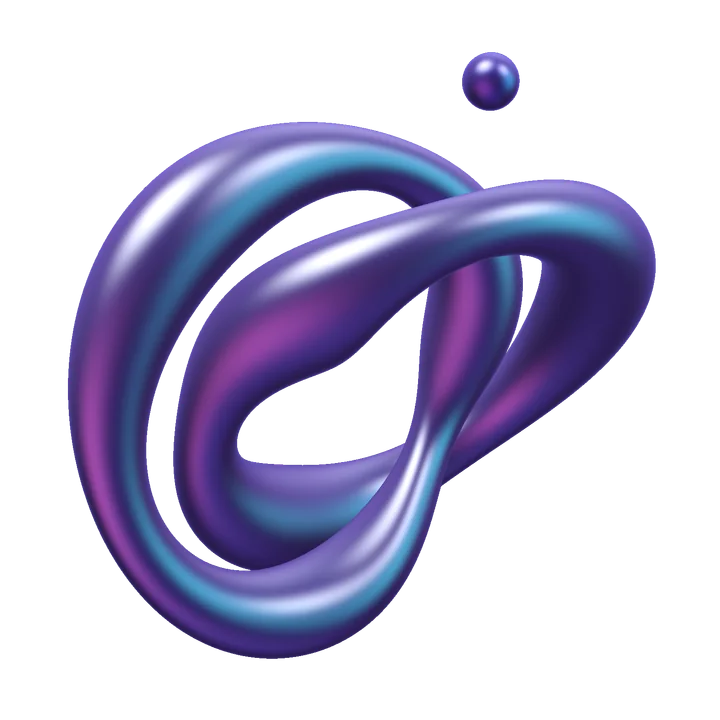
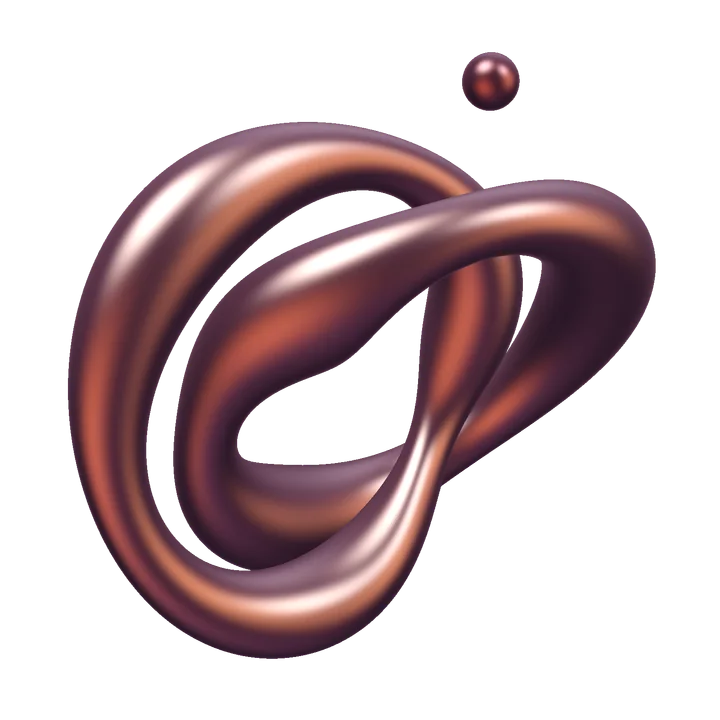
update UIs

diff --git a/components/marketing/hero/Hero.tsx b/components/marketing/hero/Hero.tsx
@@ -1,26 +1,22 @@
 import { ArrowUpRight, Play } from 'lucide-react';
-import { HeroVisual } from './HeroVisual.tsx';
 
 /**
  * Editorial hero. Left: eyebrow, oversized Sora headline with an orange accent phrase, supporting copy and two
- * calls to action. Right: the original GrowthPrint system artwork (HeroVisual) floating over an ambient glow,
- * with a small "live system" caption card. Fully theme-aware via the mk-* palette.
+ * calls to action. Right: the real GrowthPrint Studio dashboard in a browser frame — the product itself is the
+ * visual. Fully theme-aware via the mk-* palette.
  */
 export function Hero() {
   return (
     <section id="top" aria-labelledby="hero-title" className="mk-dark relative isolate overflow-hidden bg-mk-bg pt-28 lg:pt-36">
-      {/* atmosphere: cinematic orange key light upper right, coral pool lower left, plum depth */}
-      <div aria-hidden="true" className="pointer-events-none absolute -right-40 -top-52 -z-10 h-[860px] w-[860px] rounded-full bg-[#FF572E]/25 blur-[160px]" />
-      <div aria-hidden="true" className="pointer-events-none absolute -left-60 bottom-0 -z-10 h-[560px] w-[680px] rounded-full bg-[#FF7845]/15 blur-[150px]" />
-      <div aria-hidden="true" className="pointer-events-none absolute left-1/3 top-1/3 -z-10 h-[500px] w-[700px] rounded-full bg-[#6E2A12]/30 blur-[170px]" />
+      {/* atmosphere: one soft coral pool low left, plum depth from the section background */}
+      <div aria-hidden="true" className="pointer-events-none absolute -left-52 bottom-0 -z-10 h-[480px] w-[620px] rounded-full bg-mk-purple/10 blur-[140px]" />
       {/* horizon grid fade */}
-      <div aria-hidden="true" className="pointer-events-none absolute inset-x-0 bottom-0 -z-10 h-64 bg-gradient-to-t from-[#FF572E]/[0.07] to-transparent" />
+      <div aria-hidden="true" className="pointer-events-none absolute inset-x-0 bottom-0 -z-10 h-64 bg-gradient-to-t from-mk-purple/[0.07] to-transparent" />
 
       <div className="mx-auto grid max-w-[1440px] items-center gap-12 px-5 pb-20 sm:px-8 lg:min-h-[calc(100svh-8rem)] lg:grid-cols-[1.05fr_0.95fr] lg:gap-10 lg:px-14 lg:pb-28">
         <div className="relative z-10 max-w-[660px]">
-          <p className="mk-rise inline-flex items-center gap-2.5 rounded-full border border-mk-purple/40 bg-mk-purple/[0.08] px-4 py-2 text-[13px] font-medium tracking-[0.08em] text-mk-purple">
-            <span aria-hidden="true" className="text-mk-purple">✦</span>
-            SOFTWARE ENGINEERING &amp; INTELLIGENT AUTOMATION
+          <p className="mk-rise text-[13px] font-medium text-mk-purple">
+            Software engineering &amp; intelligent automation
           </p>
 
           <h1 id="hero-title" className="mk-rise mt-8 font-semibold leading-[1.02] tracking-[-0.03em] text-[clamp(2.625rem,5.5vw,5.75rem)]" style={{ animationDelay: '0.08s' }}>
@@ -28,7 +24,7 @@ export function Hero() {
             <br />
             Scale Without
             <br />
-            <span className="bg-gradient-to-r from-mk-purple to-mk-blue bg-clip-text text-transparent">Limits.</span>
+            <em className="font-light italic text-mk-purple">Limits.</em>
           </h1>
 
           <p className="mk-rise mt-8 max-w-[36rem] font-light leading-[1.65] text-[clamp(1rem,1.15vw,1.1875rem)] text-mk-muted" style={{ animationDelay: '0.16s' }}>
@@ -38,11 +34,11 @@ export function Hero() {
 
           <div className="mk-rise mt-11 flex flex-col gap-4 sm:flex-row sm:items-center" style={{ animationDelay: '0.24s' }}>
             <a href="#start"
-              className="inline-flex h-14 items-center justify-center gap-2 whitespace-nowrap rounded-xl bg-gradient-to-r from-mk-purple to-mk-blue px-8 text-base font-medium text-mk-accent-fg shadow-[0_18px_40px_-16px_rgb(249_115_22/0.55)] transition-[filter,transform] duration-150 hover:brightness-105 active:scale-[0.98]">
+              className="inline-flex h-14 items-center justify-center gap-2 whitespace-nowrap rounded-xl bg-mk-purple px-8 text-base font-medium text-mk-accent-fg transition-[filter,transform] duration-150 hover:brightness-105 active:scale-[0.98]">
               Start a Project <ArrowUpRight className="h-[18px] w-[18px]" aria-hidden="true" />
             </a>
             <a href="#meet"
-              className="inline-flex h-14 items-center justify-center gap-2 whitespace-nowrap rounded-xl border border-mk-line px-8 text-base font-medium text-mk-text transition duration-150 hover:border-mk-purple/60 hover:bg-mk-soft active:scale-[0.98]">
+              className="inline-flex h-14 items-center justify-center gap-2 whitespace-nowrap rounded-xl border border-mk-line px-8 text-base font-medium text-mk-text transition-colors duration-150 hover:border-mk-purple/60 hover:bg-mk-soft active:scale-[0.98]">
               <Play className="h-4 w-4 fill-mk-purple text-mk-purple" aria-hidden="true" /> Watch What We Do
             </a>
           </div>
@@ -61,19 +57,27 @@ export function Hero() {
           </ul>
         </div>
 
-        <div className="mk-rise relative mx-auto w-full max-w-[620px] lg:max-w-none" style={{ animationDelay: '0.18s' }}>
-          {/* ambient glow behind the artwork */}
-          <div aria-hidden="true" className="pointer-events-none absolute inset-0 -z-0 scale-90 rounded-full bg-[radial-gradient(closest-side,rgba(255,87,46,0.35),rgba(255,120,69,0.12)_55%,transparent)] blur-2xl" />
-          <HeroVisual />
-          {/* floating caption card */}
-          <div className="mk-rise absolute -bottom-2 left-2 hidden items-center gap-3 rounded-xl border border-mk-line bg-mk-surface/90 px-5 py-4 shadow-[0_24px_60px_-24px_rgb(0_0_0/0.5)] backdrop-blur-md sm:flex" style={{ animationDelay: '0.55s' }}>
-            <span className="relative flex h-2.5 w-2.5">
-              <span className="absolute inline-flex h-full w-full animate-ping rounded-full bg-mk-purple opacity-60" />
-              <span className="relative inline-flex h-2.5 w-2.5 rounded-full bg-mk-purple" />
-            </span>
+        <div className="mk-rise relative mx-auto w-full max-w-[640px] lg:max-w-none" style={{ animationDelay: '0.18s' }}>
+          {/* the product itself is the visual: the real Studio dashboard in a browser frame */}
+          <figure className="relative">
+            <div className="overflow-hidden rounded-2xl border border-white/10 bg-mk-surface shadow-[0_50px_110px_-40px_rgb(0_0_0/0.7)] ring-1 ring-white/5">
+              <div aria-hidden="true" className="flex items-center gap-2 border-b border-mk-line bg-mk-soft/60 px-4 py-3">
+                <span className="h-2.5 w-2.5 rounded-full bg-mk-line" />
+                <span className="h-2.5 w-2.5 rounded-full bg-mk-line" />
+                <span className="h-2.5 w-2.5 rounded-full bg-mk-line" />
+                <span className="ml-3 hidden rounded-md bg-mk-bg px-3 py-1 text-[12px] text-mk-muted sm:block">studio.growthprint.agency/ops</span>
+              </div>
+              <img src="/images/work/growthprint-studio-dashboard.webp" width={1440} height={1000} decoding="async"
+                alt="GrowthPrint Studio dashboard with project, lead, client and invoice summaries and charts"
+                className="block w-full" />
+            </div>
+          </figure>
+          {/* caption card */}
+          <div className="mk-rise absolute -bottom-4 left-4 hidden items-center gap-3 rounded-xl border border-mk-line bg-mk-surface/90 px-5 py-4 shadow-[0_24px_60px_-24px_rgb(0_0_0/0.5)] backdrop-blur-md sm:flex" style={{ animationDelay: '0.55s' }}>
+            <span aria-hidden="true" className="h-2 w-2 rounded-full bg-mk-purple" />
             <div>
               <p className="text-[13px] font-medium text-mk-text">GrowthPrint Studio</p>
-              <p className="text-[12px] text-mk-dim">Live operations platform · demo data</p>
+              <p className="text-[12px] text-mk-dim">The operations platform we run our own agency on</p>
             </div>
           </div>
         </div>

diff --git a/components/marketing/services/Services.tsx b/components/marketing/services/Services.tsx
@@ -10,7 +10,7 @@ function CodeVisual() {
         <div key={i} className="whitespace-pre">
           <span className="mr-4 text-white/25">{18 + i}</span>
           <span className="text-mk-muted">{l[0]}</span><span className="text-[#ffb38a]">{l[1]}</span>
-          <span className="text-[#7fd4ff]">{l[2]}</span><span className="text-[#ffd2a8]">{l[3]}</span><span className="text-mk-muted">{l[4] ?? ''}</span>
+          <span className="text-[#e8c9ae]">{l[2]}</span><span className="text-[#ffd2a8]">{l[3]}</span><span className="text-mk-muted">{l[4] ?? ''}</span>
         </div>
       ))}
     </div>
@@ -21,7 +21,7 @@ function BarsVisual() {
   return (
     <div aria-hidden="true" className="mt-8 flex h-24 items-end gap-2">
       {[38, 62, 48, 80, 56, 92, 70].map((h, i) => (
-        <span key={i} className="flex-1 rounded-t-md bg-gradient-to-t from-mk-blue/50 to-mk-purple/80" style={{ height: `${h}%` }} />
+        <span key={i} className="flex-1 rounded-t-md bg-mk-purple/80" style={{ height: `${h}%` }} />
       ))}
     </div>
   );
@@ -36,7 +36,7 @@ function FlowVisual() {
           {i < 2 && <path d={`M${x + 80} 45 H${x + 100}`} stroke="var(--mk-purple)" strokeWidth="2" />}
         </g>
       ))}
-      <circle cx="304" cy="45" r="9" fill="var(--mk-blue)" opacity="0.9" /><path d="M300 45l3 3 6-6" stroke="var(--mk-code)" strokeWidth="2" fill="none" />
+      <circle cx="304" cy="45" r="9" fill="var(--mk-purple)" opacity="0.9" /><path d="M300 45l3 3 6-6" stroke="var(--mk-code)" strokeWidth="2" fill="none" />
     </svg>
   );
 }
@@ -47,7 +47,7 @@ function HubVisual() {
     <svg aria-hidden="true" viewBox="0 0 320 100" className="mt-8 w-full">
       {spokes.map(([x, y], i) => <line key={i} x1="160" y1="50" x2={x} y2={y} stroke="var(--mk-purple)" strokeOpacity="0.5" strokeWidth="1.5" />)}
       {spokes.map(([x, y], i) => <circle key={`c${i}`} cx={x} cy={y} r="6" fill="var(--mk-surface)" stroke="var(--mk-purple)" strokeWidth="1.5" />)}
-      <circle cx="160" cy="50" r="15" fill="url(#hubg)" /><defs><radialGradient id="hubg"><stop offset="0" style={{ stopColor: 'var(--mk-purple)' }} /><stop offset="1" style={{ stopColor: 'var(--mk-blue)' }} /></radialGradient></defs>
+      <circle cx="160" cy="50" r="15" fill="var(--mk-purple)" />
     </svg>
   );
 }
@@ -57,7 +57,7 @@ function ReviewVisual() {
     <ul aria-hidden="true" className="mt-8 space-y-2.5">
       {['Architecture', 'Performance', 'Security', 'Maintainability'].map((label, i) => (
         <li key={label} className="flex items-center gap-3 text-[13px] text-mk-muted">
-          <span className="h-1.5 flex-1 overflow-hidden rounded-full bg-mk-line"><span className="block h-full rounded-full bg-gradient-to-r from-mk-purple to-mk-violet" style={{ width: `${[86, 72, 80, 64][i]}%` }} /></span>
+          <span className="h-1.5 flex-1 overflow-hidden rounded-full bg-mk-line"><span className="block h-full rounded-full bg-mk-purple/80" style={{ width: `${[86, 72, 80, 64][i]}%` }} /></span>
           <span className="w-28 text-right">{label}</span>
         </li>
       ))}
@@ -96,7 +96,6 @@ export function Services() {
                 className={`mk-reveal relative overflow-hidden rounded-2xl border p-7 transition-transform duration-300 ease-out hover:-translate-y-1 sm:p-8 ${PLACEMENT[service.id]} ${service.id === 'websites'
                   ? 'mk-dark border-white/10 bg-gradient-to-br from-[#211824] via-[#19121D] to-[#100B12] shadow-[0_40px_90px_-40px_rgb(16_11_18/0.7)]'
                   : 'border-mk-line bg-gradient-to-br from-mk-soft via-mk-surface to-mk-bg'}`}>
-                <div aria-hidden="true" className={`pointer-events-none absolute -bottom-24 -left-16 h-64 w-64 rounded-full blur-[90px] ${service.id === 'websites' ? 'bg-[#FF572E]/20' : 'bg-mk-purple/15'}`} />
                 <div className={service.id === 'websites' ? 'relative md:max-w-[42%]' : 'relative'}>
                   <h3 className="font-medium text-[clamp(1.125rem,1.5vw,1.375rem)] sm:text-[1.375rem]">{service.title}</h3>
                   <p className="mt-3 font-light leading-[1.65] text-[clamp(0.9375rem,1.1vw,1rem)] text-mk-muted">{service.summary}</p>

diff --git a/scripts/marketing-media/sculpture.html b/scripts/marketing-media/sculpture.html
@@ -49,21 +49,26 @@ vec3 normalAt(vec3 p){
   return normalize(vec3(mapD(p+e.xyy)-mapD(p-e.xyy), mapD(p+e.yxy)-mapD(p-e.yxy), mapD(p+e.yyx)-mapD(p-e.yyx)));
 }
 
-// Studio environment: dark violet room, a large white softbox, a cyan rim light and a magenta kicker.
+// Studio environment: dark plum room, a large white softbox, a coral rim light and a warm kicker.
 vec3 env(vec3 d){
   float t = d.y*0.5 + 0.5;
-  vec3 c = mix(vec3(0.030,0.015,0.070), vec3(0.40,0.30,0.88), smoothstep(0.10, 0.95, t));
+  vec3 c = mix(vec3(0.024,0.012,0.034), vec3(0.34,0.20,0.30), smoothstep(0.10, 0.95, t));
   c += vec3(0.95,0.96,1.0) * pow(max(dot(d, normalize(vec3(-0.45,0.85,0.55))),0.0), 12.0) * 4.2;
   c += vec3(0.90,0.92,1.0) * pow(max(dot(d, normalize(vec3(0.65,0.55,0.55))),0.0), 18.0) * 2.4;
   c += vec3(0.70,0.78,1.0) * pow(max(dot(d, normalize(vec3(0.2,0.9,-0.4))),0.0), 6.0) * 0.55;
-  c += vec3(0.10,0.85,1.00) * pow(max(dot(d, normalize(vec3(0.95,0.05,0.35))),0.0), 7.0) * 1.25;
-  c += vec3(1.00,0.25,0.80) * pow(max(dot(d, normalize(vec3(-0.55,-0.55,0.65))),0.0), 5.0) * 1.05;
-  c += vec3(0.30,0.20,1.00) * pow(max(dot(d, normalize(vec3(0.1,-0.9,0.3))),0.0), 3.0) * 0.45;
+  c += vec3(1.00,0.55,0.30) * pow(max(dot(d, normalize(vec3(0.95,0.05,0.35))),0.0), 7.0) * 1.25;
+  c += vec3(1.00,0.38,0.20) * pow(max(dot(d, normalize(vec3(-0.55,-0.55,0.65))),0.0), 5.0) * 1.05;
+  c += vec3(0.45,0.22,0.40) * pow(max(dot(d, normalize(vec3(0.1,-0.9,0.3))),0.0), 3.0) * 0.45;
   return c;
 }
 
 vec3 iridescence(float f){
-  return 0.5 + 0.5*cos(2.0*PI*(vec3(0.62,0.70,0.82) + f*vec3(0.85,0.72,0.60)));
+  vec3 coral = vec3(1.00,0.55,0.30);
+  vec3 gold  = vec3(1.00,0.78,0.50);
+  vec3 rose  = vec3(0.80,0.38,0.48);
+  float band = 0.5 + 0.5*cos(2.0*PI*(0.30 + f*0.85));
+  float lean = 0.5 + 0.5*sin(2.0*PI*(0.12 + f*0.60));
+  return mix(gold, mix(coral, rose, lean), band);
 }
 
 float ao(vec3 p, vec3 n){
@@ -88,10 +93,10 @@ void main(){
   vec3 p = ro + rd*t, n = normalAt(p), v = -rd, r = reflect(rd, n);
   float ndv = clamp(dot(n, v), 0.0, 1.0);
   float fres = pow(1.0 - ndv, 4.0);
-  vec3 tint = id < 0.5 ? mix(vec3(0.90,0.90,1.0), iridescence(ndv + 0.15*n.y), 0.45) : mix(vec3(0.55,0.52,0.95), iridescence(ndv), 0.4);
+  vec3 tint = id < 0.5 ? mix(vec3(0.95,0.92,0.90), iridescence(ndv + 0.15*n.y), 0.45) : mix(vec3(0.55,0.36,0.44), iridescence(ndv), 0.4);
   vec3 col = env(r) * tint;
   col += env(r) * fres * 0.9;
-  col += vec3(0.09,0.06,0.18);                       // a little body colour so shadows stay violet, not black
+  col += vec3(0.10,0.05,0.09);                       // a little body colour so shadows stay plum, not black
   col *= mix(0.55, 1.0, ao(p, n));
   col = col / (1.0 + col*0.55);                     // soft tone map
   col = pow(col, vec3(0.88));

diff --git a/features/inquiries/ProjectInquiryForm.tsx b/features/inquiries/ProjectInquiryForm.tsx
@@ -67,8 +67,8 @@ export function ProjectInquiryForm() {
   if (reference) {
     return (
       <div ref={confirmRef} tabIndex={-1} role="status"
-        className="rounded-[22px] border border-mk-violet/40 bg-mk-surface/80 p-8 outline-none sm:p-10">
-        <CheckCircle2 className="h-10 w-10 text-mk-cyan" aria-hidden="true" />
+        className="rounded-2xl border border-mk-purple/40 bg-mk-surface/80 p-8 outline-none sm:p-10">
+        <CheckCircle2 className="h-10 w-10 text-mk-purple" aria-hidden="true" />
         <h3 className="mt-5 text-2xl font-medium">Inquiry received</h3>
         <p className="mt-3 font-light leading-relaxed text-mk-muted">
           Thanks, {values.name.trim().split(' ')[0]}. Your reference is{' '}
@@ -92,7 +92,7 @@ export function ProjectInquiryForm() {
 
   return (
     <form ref={formRef} onSubmit={submit} noValidate aria-busy={pending}
-      className="rounded-[22px] border border-mk-line bg-mk-surface/80 p-6 backdrop-blur-sm sm:p-9">
+      className="rounded-2xl border border-mk-line bg-mk-surface/80 p-6 backdrop-blur-sm sm:p-9">
       <div className="grid gap-5 sm:grid-cols-2">
         <div>
           <label htmlFor={`${id}-name`} className={label}>Full name</label>
@@ -173,7 +173,7 @@ export function ProjectInquiryForm() {
       )}
 
       <button type="submit" disabled={pending}
-        className="mt-8 inline-flex h-14 w-full items-center justify-center gap-2 rounded-xl bg-gradient-to-r from-mk-purple to-mk-blue px-8 text-base font-medium text-mk-accent-fg transition-[filter] hover:brightness-105 disabled:cursor-wait disabled:opacity-70 sm:w-auto">
+        className="mt-8 inline-flex h-14 w-full items-center justify-center gap-2 rounded-xl bg-mk-purple px-8 text-base font-medium text-mk-accent-fg transition-[filter] hover:brightness-105 disabled:cursor-wait disabled:opacity-70 sm:w-auto">
         {pending ? 'Sending…' : <>Send inquiry <ArrowUpRight className="h-[18px] w-[18px]" aria-hidden="true" /></>}
       </button>
     </form>

diff --git a/components/marketing/final-cta/FinalCta.tsx b/components/marketing/final-cta/FinalCta.tsx
@@ -13,8 +13,10 @@ export function FinalCta() {
         {lines.map(i => <path key={`l${i}`} pathLength={1} d={`M0 ${60 + i * 85} Q 520 ${300 + (i - 3) * 22} 760 320`} fill="none" stroke="url(#mk-line-l)" strokeWidth="1" />)}
         {lines.map(i => <path key={`r${i}`} pathLength={1} d={`M1600 ${60 + i * 85} Q 1080 ${300 + (i - 3) * 22} 840 320`} fill="none" stroke="url(#mk-line-r)" strokeWidth="1" />)}
       </svg>
-      <div aria-hidden="true" className="pointer-events-none absolute left-1/2 top-1/2 -z-10 h-[420px] w-[720px] -translate-x-1/2 -translate-y-1/2 rounded-full bg-[#FF572E]/20 blur-[130px]" />
       <div className="mk-reveal mx-auto max-w-3xl px-5 py-32 text-center sm:px-8 lg:py-44">
+        <img src="/images/growthprint-sculpture-720.webp" width={720} height={720} decoding="async"
+          alt=""
+          className="mx-auto mb-10 h-44 w-44 object-contain sm:h-56 sm:w-56" />
         <h2 id="final-title" className="font-medium leading-[1.08] tracking-[-0.02em] text-[clamp(2rem,4.4vw,3.75rem)]">
           Your next stage of growth starts with <em className="font-light italic">better technology.</em>
         </h2>
@@ -22,7 +24,7 @@ export function FinalCta() {
           Tell us what you&rsquo;re trying to achieve. Let&rsquo;s explore how GrowthPrint can help.
         </p>
         <a href="#start"
-          className="mt-10 inline-flex h-14 items-center gap-2 rounded-xl bg-gradient-to-r from-mk-purple to-mk-blue px-8 text-base font-medium text-mk-accent-fg shadow-[0_18px_40px_-16px_rgb(249_115_22/0.55)] transition-[filter,transform] duration-150 hover:brightness-105 active:scale-[0.98]">
+          className="mt-10 inline-flex h-14 items-center gap-2 rounded-xl bg-mk-purple px-8 text-base font-medium text-mk-accent-fg transition-[filter,transform] duration-150 hover:brightness-105 active:scale-[0.98]">
           Start Your Project <ArrowUpRight className="h-[18px] w-[18px]" aria-hidden="true" />
         </a>
       </div>

diff --git a/components/marketing/explainer-video/ExplainerVideo.tsx b/components/marketing/explainer-video/ExplainerVideo.tsx
@@ -37,7 +37,7 @@ export function ExplainerVideo() {
 
   return (
     <div className="relative w-full">
-      <div aria-hidden="true" className="pointer-events-none absolute -inset-8 -z-10 rounded-[40px] bg-gradient-to-br from-mk-purple/30 via-mk-blue/15 to-transparent blur-3xl" />
+      <div aria-hidden="true" className="pointer-events-none absolute -inset-8 -z-10 rounded-[40px] bg-mk-purple/10 blur-3xl" />
       <div className="relative aspect-video w-full overflow-hidden rounded-2xl border border-mk-line bg-mk-code shadow-[0_40px_120px_-40px_rgb(0_0_0/0.55)]">
         <video
           ref={videoRef}
@@ -56,8 +56,8 @@ export function ExplainerVideo() {
         {!started && (
           <button type="button" onClick={() => void start()}
             className="group absolute inset-0 flex items-center justify-center bg-gradient-to-t from-mk-code/70 via-transparent to-transparent">
-            <span className="flex h-20 w-20 items-center justify-center rounded-full bg-white/10 ring-1 ring-white/30 backdrop-blur-md transition-transform duration-300 group-hover:scale-105 group-focus-visible:scale-105 sm:h-24 sm:w-24">
-              <span className="flex h-14 w-14 items-center justify-center rounded-full bg-gradient-to-br from-mk-purple to-mk-blue sm:h-16 sm:w-16">
+            <span className="flex h-20 w-20 items-center justify-center rounded-full bg-white/10 ring-1 ring-white/30 backdrop-blur-md transition-transform duration-200 group-hover:scale-105 group-focus-visible:scale-105 sm:h-24 sm:w-24">
+              <span className="flex h-14 w-14 items-center justify-center rounded-full bg-mk-purple sm:h-16 sm:w-16">
                 <Play className="ml-1 h-6 w-6 fill-mk-accent-fg text-mk-accent-fg" aria-hidden="true" />
               </span>
             </span>

diff --git a/components/marketing/case-studies/OurWork.tsx b/components/marketing/case-studies/OurWork.tsx
@@ -6,7 +6,7 @@
 export function OurWork() {
   return (
     <section id="work" aria-labelledby="work-title" className="mk-dark scroll-mt-24 border-t border-mk-line bg-mk-bg">
-      <div aria-hidden="true" className="pointer-events-none absolute -left-40 top-24 -z-10 h-[480px] w-[480px] rounded-full bg-[#FF572E]/15 blur-[140px]" />
+      <div aria-hidden="true" className="pointer-events-none absolute -left-40 top-24 -z-10 h-[480px] w-[480px] rounded-full bg-mk-purple/10 blur-[140px]" />
       <div className="relative mx-auto max-w-[1440px] px-5 py-24 sm:px-8 lg:px-14 lg:py-32">
         <div className="grid gap-12 lg:grid-cols-[0.8fr_1.2fr] lg:items-center lg:gap-16">
           <div className="mk-reveal">
@@ -29,7 +29,7 @@ export function OurWork() {
           </div>
 
           <figure className="mk-reveal relative">
-            <div aria-hidden="true" className="pointer-events-none absolute -inset-10 -z-10 rounded-full bg-[#FF572E]/15 blur-[100px]" />
+            <div aria-hidden="true" className="pointer-events-none absolute -inset-10 -z-10 rounded-full bg-mk-purple/10 blur-[100px]" />
             <div className="overflow-hidden rounded-2xl border border-white/10 bg-mk-surface shadow-[0_50px_120px_-40px_rgb(0_0_0/0.8)] ring-1 ring-white/5">
               <img src="/images/work/growthprint-studio-dashboard.webp" width={1440} height={1000} decoding="async"
                 alt="GrowthPrint Studio dashboard with project, lead, client and invoice summaries and charts"

diff --git a/components/ui/forms.tsx b/components/ui/forms.tsx
@@ -53,9 +53,10 @@ export const Button = forwardRef<HTMLButtonElement, ButtonProps>(function Button
       disabled={disabled || loading}
       aria-busy={loading || undefined}
       className={cx(
-        'inline-flex items-center justify-center gap-2 rounded-lg font-semibold transition-colors',
+        'inline-flex items-center justify-center gap-2 rounded-lg font-semibold transition-all duration-200 ease-out',
         'focus-visible:outline-none focus-visible:ring-4 focus-visible:ring-gp-primary/30',
         'disabled:cursor-not-allowed disabled:opacity-55',
+        'active:scale-[0.98] active:shadow-sm',
         sizes[size], BUTTON_VARIANTS[variant], fullWidth && 'w-full', className,
       )}
       {...rest}
@@ -109,7 +110,7 @@ export function Field({ label, required, help, error, className, children }: Fie
 }
 
 export const inputClass = (invalid: boolean, extra?: string) => cx(
-  'block w-full rounded-lg border bg-gp-surface px-3 py-2 text-sm text-gp-text transition',
+  'block w-full rounded-lg border bg-gp-surface px-3 py-2 text-sm text-gp-text transition-all duration-200 ease-out',
   'placeholder:text-gp-text-muted focus:outline-none focus:ring-4',
   'disabled:cursor-not-allowed disabled:bg-gp-surface-secondary disabled:text-gp-text-muted',
   invalid ? 'border-gp-danger focus:border-gp-danger focus:ring-gp-danger/20' : 'border-gp-border focus:border-gp-primary focus:ring-gp-primary/30',

diff --git a/components/marketing/navbar/MarketingNav.tsx b/components/marketing/navbar/MarketingNav.tsx
@@ -61,7 +61,7 @@ export function MarketingNav() {
 
         <div className="flex items-center gap-3">
           <a href="/#start"
-            className="hidden h-12 items-center rounded-xl bg-gradient-to-r from-mk-purple to-mk-blue px-7 text-[15px] font-medium text-mk-accent-fg shadow-[0_10px_30px_-12px_rgb(249_115_22/0.6)] transition-[filter,transform] duration-150 hover:brightness-105 active:scale-[0.98] sm:inline-flex">
+            className="hidden h-12 items-center rounded-xl bg-mk-purple px-7 text-[15px] font-medium text-mk-accent-fg transition-[filter,transform] duration-150 hover:brightness-105 active:scale-[0.98] sm:inline-flex">
             Contact Us
           </a>
           <button ref={buttonRef} type="button" onClick={() => setOpen(o => !o)} aria-expanded={open} aria-controls="mk-menu"
@@ -83,7 +83,7 @@ export function MarketingNav() {
             ))}
           </ul>
           <a href="/#start" onClick={() => setOpen(false)}
-            className="mt-6 flex h-12 items-center justify-center rounded-xl bg-gradient-to-r from-mk-purple to-mk-blue text-[15px] font-medium text-mk-accent-fg">
+            className="mt-6 flex h-12 items-center justify-center rounded-xl bg-mk-purple text-[15px] font-medium text-mk-accent-fg">
             Contact Us
           </a>
         </div>

diff --git a/components/marketing/brand-intro/BrandIntro.tsx b/components/marketing/brand-intro/BrandIntro.tsx
@@ -26,10 +26,10 @@ export function BrandIntro() {
       </section>
 
       <section id="meet" aria-labelledby="meet-title" className="mk-dark relative scroll-mt-24 overflow-hidden border-t border-mk-line bg-mk-bg">
-        <div aria-hidden="true" className="pointer-events-none absolute left-1/2 top-40 -z-10 h-[600px] w-[1000px] -translate-x-1/2 rounded-full bg-[#FF572E]/15 blur-[160px]" />
+        <div aria-hidden="true" className="pointer-events-none absolute left-1/2 top-40 -z-10 h-[600px] w-[1000px] -translate-x-1/2 rounded-full bg-mk-purple/10 blur-[160px]" />
         <div className="mx-auto max-w-[1240px] px-5 pb-24 sm:px-8 lg:px-14 lg:pb-32">
           <div className="mk-reveal mx-auto max-w-3xl text-center mb-12">
-            <p className="text-[13px] font-medium tracking-[0.14em] text-mk-violet">MEET GROWTHPRINT</p>
+            <p className="text-[13px] font-medium text-mk-violet">Meet GrowthPrint</p>
             <h2 id="meet-title" className="mt-5 font-medium leading-[1.08] tracking-[-0.02em] text-[clamp(1.875rem,3.8vw,3.375rem)]">
               Technology should make business <em className="font-light italic">easier.</em>
             </h2>

diff --git a/app/globals.css b/app/globals.css
@@ -399,9 +399,7 @@
 [data-theme="dark"] .gp-marketing { color-scheme: dark; }
 .gp-marketing :focus-visible { outline: 2px solid var(--color-mk-violet); outline-offset: 3px; }
 .gp-marketing ::selection { background: rgb(249 115 22 / 0.35); }
-@keyframes mk-float { 0%, 100% { transform: translateY(0) rotate(0deg); } 50% { transform: translateY(-14px) rotate(1.5deg); } }
 @keyframes mk-rise { from { opacity: 0; transform: translateY(18px); } to { opacity: 1; transform: none; } }
-.mk-float { animation: mk-float 9s ease-in-out infinite; }
 .mk-rise { animation: mk-rise 0.9s cubic-bezier(0.2, 0.8, 0.2, 1) both; }
 
 /* Scroll-driven reveals: content rises into view as it enters the scrollport. Pure CSS
@@ -425,7 +423,7 @@
 }
 .mk-menu-in { animation: mk-menu-in 0.25s cubic-bezier(0.2, 0, 0, 1) both; }
 @media (prefers-reduced-motion: reduce) {
-  .mk-float, .mk-rise, .mk-reveal, .mk-menu-in, .mk-draw path { animation: none; }
+  .mk-rise, .mk-reveal, .mk-menu-in, .mk-draw path { animation: none; }
   .mk-draw path { stroke-dashoffset: 0; }
 }
 

diff --git a/features/auth/components/AuthShell.tsx b/features/auth/components/AuthShell.tsx
@@ -28,12 +28,6 @@ export function AuthShell({ eyebrow, title, subtitle, children, footer, aside }:
   return (
     <div className="gp-app grid min-h-screen bg-gp-canvas lg:grid-cols-[minmax(0,5fr)_minmax(0,7fr)]">
       <aside className="relative hidden overflow-hidden bg-gp-plum text-white lg:flex lg:flex-col lg:justify-between lg:p-12">
-        {/* Blueprint grid, purely decorative. */}
-        <div aria-hidden="true" className="pointer-events-none absolute inset-0 opacity-100"
-          style={{
-            backgroundImage: 'linear-gradient(rgb(255 255 255 / 0.05) 1px, transparent 1px), linear-gradient(90deg, rgb(255 255 255 / 0.05) 1px, transparent 1px)',
-            backgroundSize: '24px 24px',
-          }} />
         <Link href="/" className="relative flex w-fit items-center gap-2.5 rounded-md focus-visible:outline-white">
           <GrowthPrintMark className="h-8 w-8" tone="light" />
           <span className="gp-display text-lg font-semibold">GrowthPrint</span>
